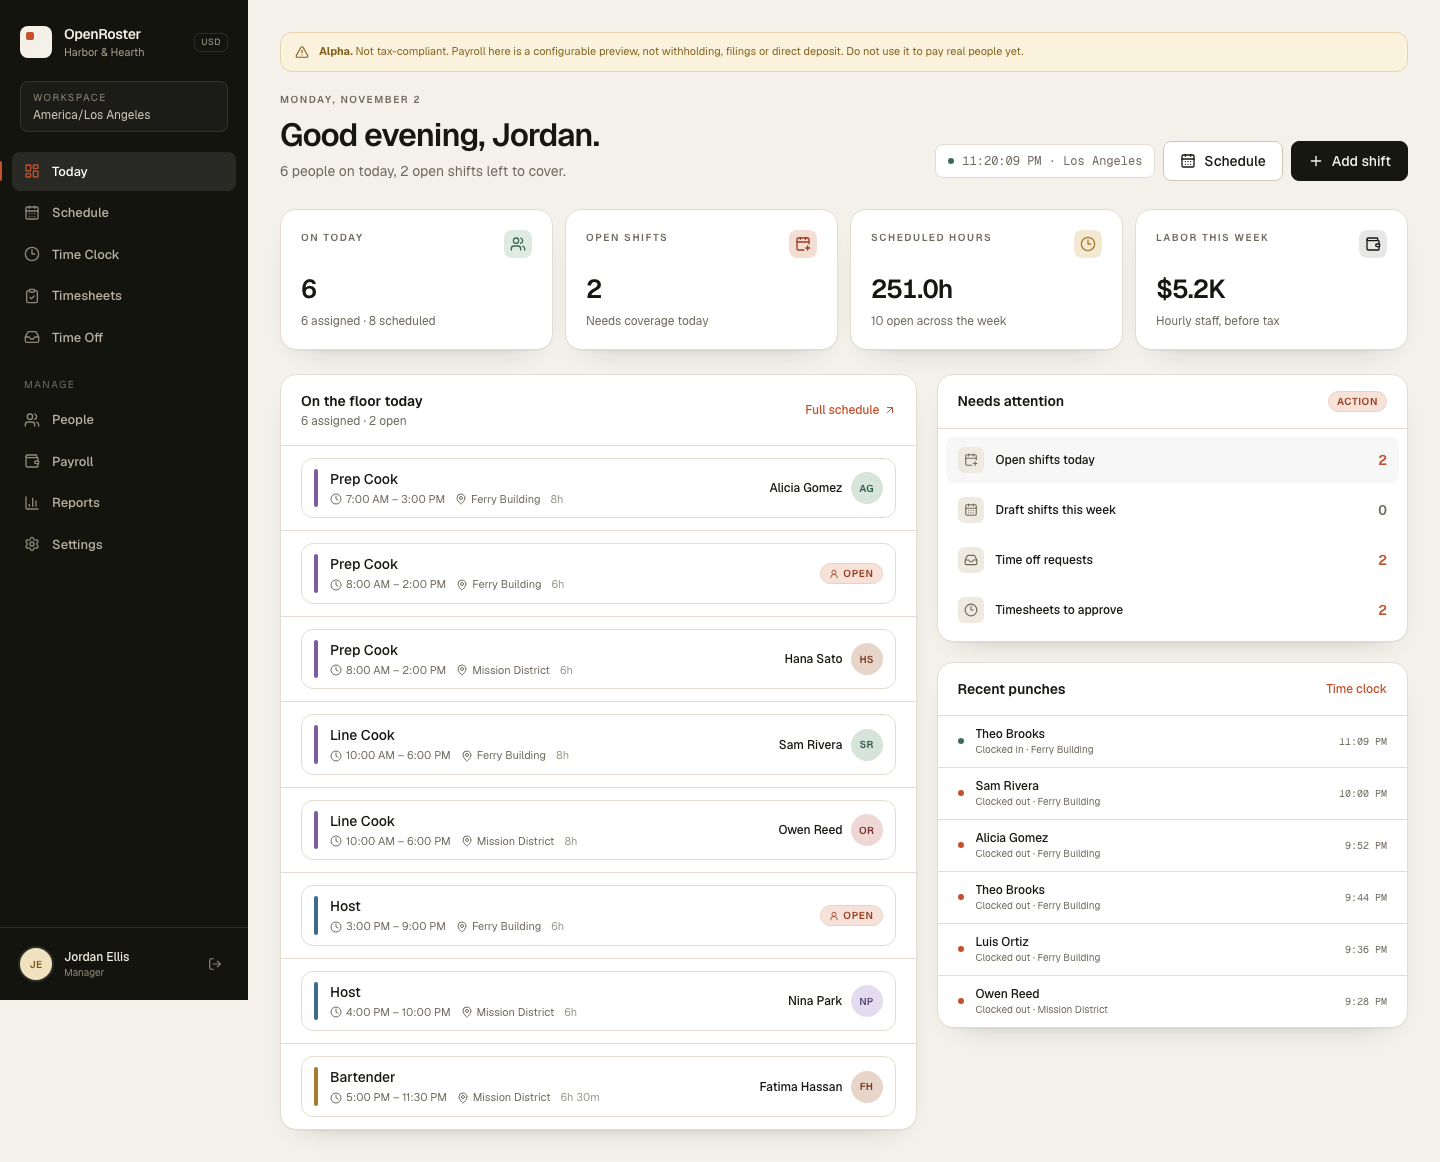
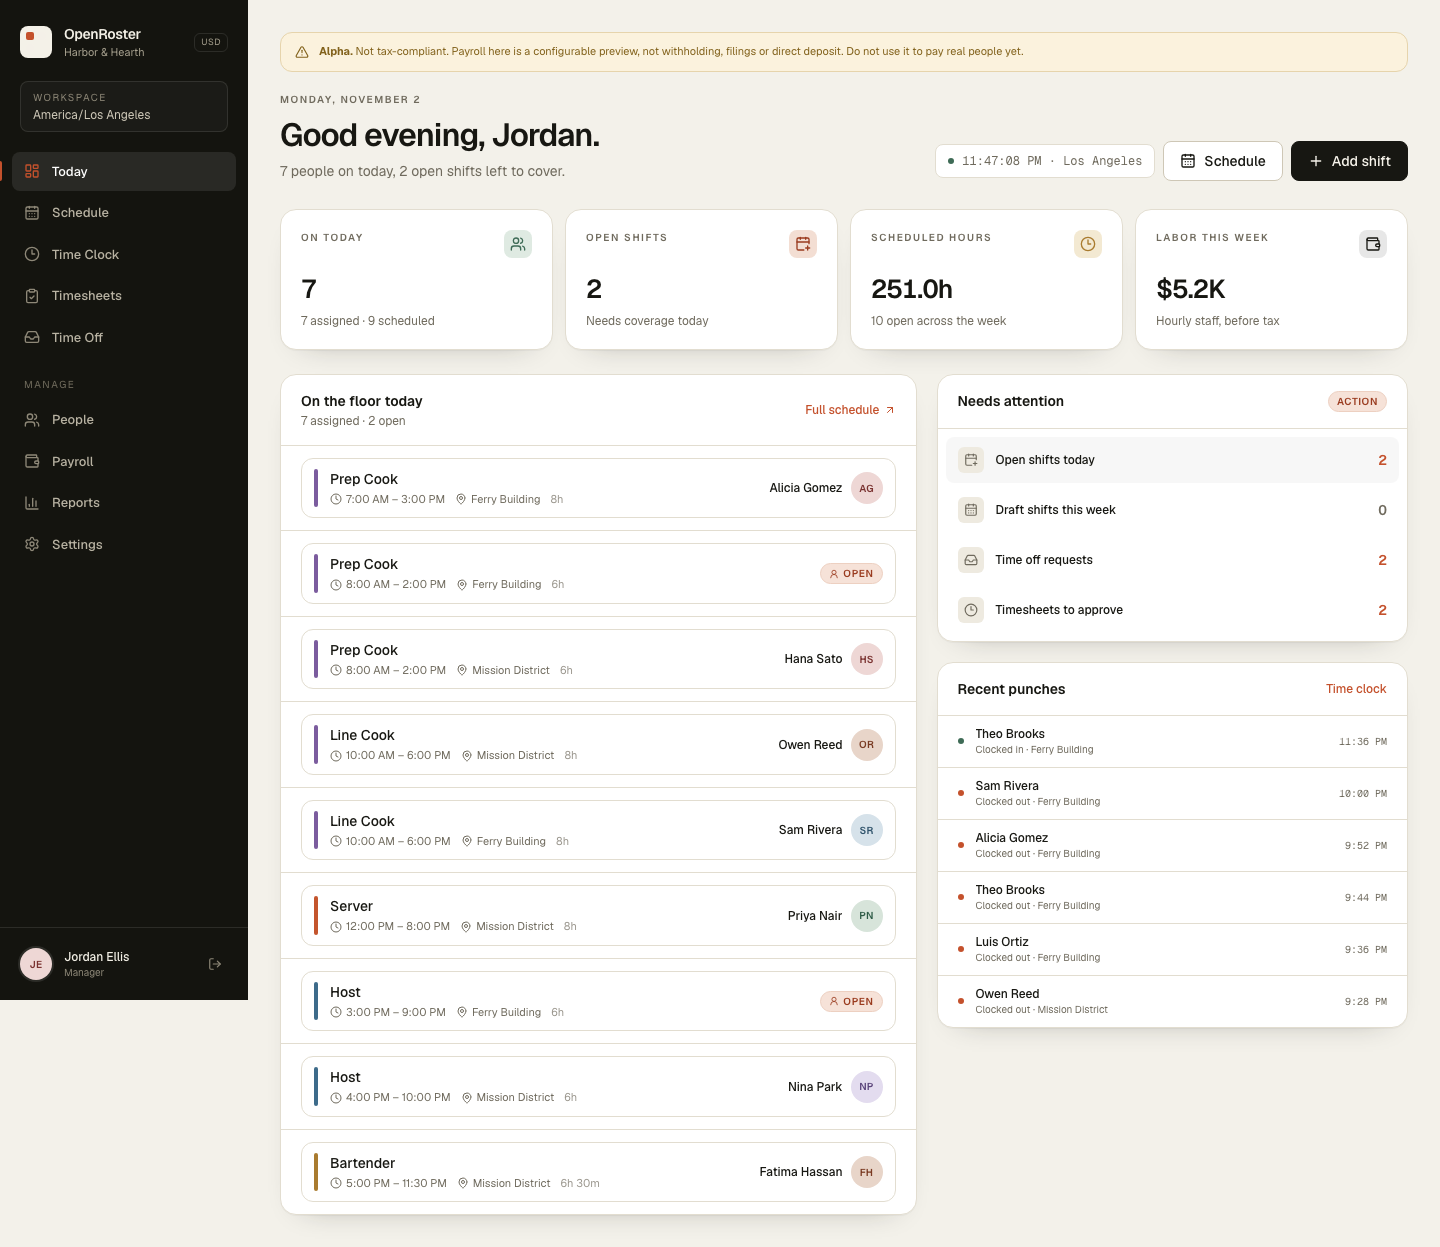
feat: enforce availability on manual shifts
Store local shift start/end times, align the demo seed with availability windows, and reject manual assignments outside an employee's availability. Refresh screenshots.

diff --git a/pb/pb_hooks/lib.js b/pb/pb_hooks/lib.js
@@ -230,6 +230,28 @@ function shiftAssignmentError(app, record, employeeId, ignoreId) {
   const leave = approvedTimeOff(app, employeeId, date, date)
   if (leave.length > 0) return "This employee has approved time off on that day."
 
+  const localStart = record.getString("local_start")
+  const localEnd = record.getString("local_end")
+  if (localStart && localEnd) {
+    const weekday = String(new Date(date + "T00:00:00Z").getUTCDay())
+    const allWindows = app.findRecordsByFilter(
+      "availability",
+      "employee = {:employee}",
+      "weekday",
+      200,
+      0,
+      { employee: employeeId }
+    )
+    if (allWindows.length > 0) {
+      const dayWindows = allWindows.filter((window) => String(window.getString("weekday")) === weekday)
+      const covered = dayWindows.some((window) => {
+        return minutesOfDay(window.getString("start_time")) <= minutesOfDay(localStart) &&
+          minutesOfDay(window.getString("end_time")) >= minutesOfDay(localEnd)
+      })
+      if (!covered) return "The employee is not available for this shift window."
+    }
+  }
+
   const weekStartsOn = parseInt(company.getString("week_start") || "1", 10)
   const start = weekStartDate(date, weekStartsOn)
   const end = addDays(start, 6)

diff --git a/pb/pb_migrations/1793664007_shift_local_times.js b/pb/pb_migrations/1793664007_shift_local_times.js
@@ -1,0 +1,16 @@
+/// <reference path="../pb_data/types.d.ts" />
+migrate((app) => {
+  const shifts = app.findCollectionByNameOrId('shifts')
+  if (!shifts.fields.getByName('local_start')) {
+    shifts.fields.add(new TextField({ name: 'local_start', max: 5 }))
+  }
+  if (!shifts.fields.getByName('local_end')) {
+    shifts.fields.add(new TextField({ name: 'local_end', max: 5 }))
+  }
+  app.save(shifts)
+}, (app) => {
+  const shifts = app.findCollectionByNameOrId('shifts')
+  if (shifts.fields.getByName('local_start')) shifts.fields.removeByName('local_start')
+  if (shifts.fields.getByName('local_end')) shifts.fields.removeByName('local_end')
+  app.save(shifts)
+})

diff --git a/pb/pb_hooks/main.pb.js b/pb/pb_hooks/main.pb.js
@@ -696,7 +696,7 @@ onRecordUpdateRequest((e) => {
   const changed = !h.sameFields(original, e.record, moneyFields)
 
   if (from === "approved" && (changed || (to !== "approved" && to !== "paid"))) {
-    throw new BadRequestError("Approved timesheets are locked. Use a correction workflow.")
+    throw new BadRequestError("Approved timesheets are locked. Ask a superuser to correct them.")
   }
   if (from === "paid") {
     throw new BadRequestError("Paid timesheets are locked.")

diff --git a/web/src/components/shift-modal.tsx b/web/src/components/shift-modal.tsx
@@ -111,6 +111,8 @@ export function ShiftModal({
         position: position || undefined,
         employee: employee || "",
         local_date: `${date} 00:00:00.000Z`,
+        local_start: startTime,
+        local_end: endTime,
         starts_at: starts,
         ends_at: ends,
         break_minutes: Number(breakMinutes) || 0,

diff --git a/web/src/lib/types.ts b/web/src/lib/types.ts
@@ -98,6 +98,8 @@ export interface Shift extends BaseRecord {
   starts_at: string;
   ends_at: string;
   local_date?: string;
+  local_start?: string;
+  local_end?: string;
   break_minutes?: number;
   status: "draft" | "published";
   source?: "manual" | "auto" | "swap";
